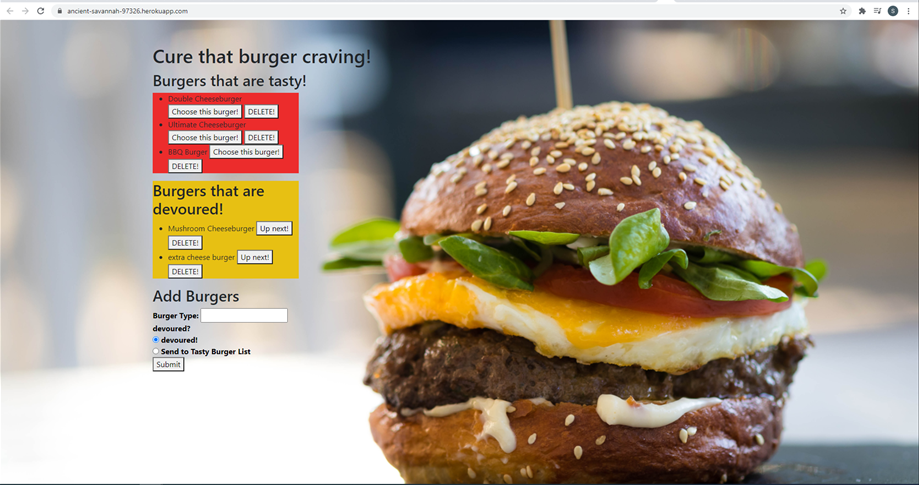
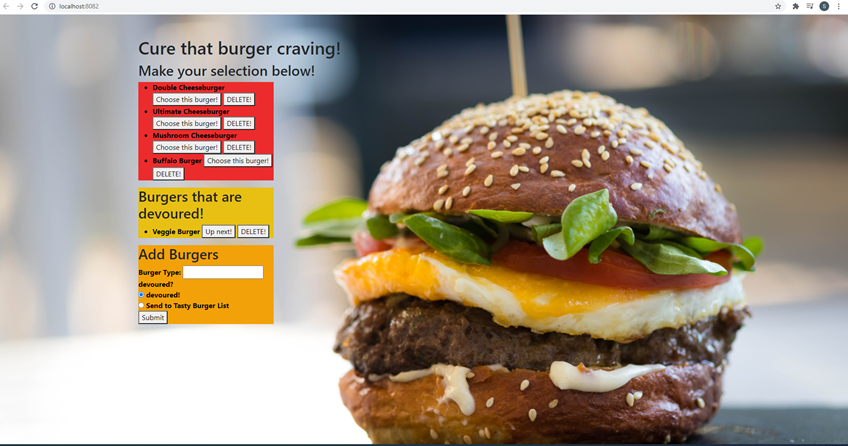
updated styling colors and fonts. Updated readme photo to account for styling changes

diff --git a/public/assets/css/styles.css b/public/assets/css/styles.css
@@ -25,9 +25,18 @@
     background-color: rgb(231, 192, 19);
 }
 
+#add-burgers-list {
+    background-color: rgb(243, 161, 8);
+}
+
 .form-group {
     color: black;
     font-weight: bold;
+}
+
+li {
+    color: black;
+    font-weight: bold; 
 }
 
 body {
